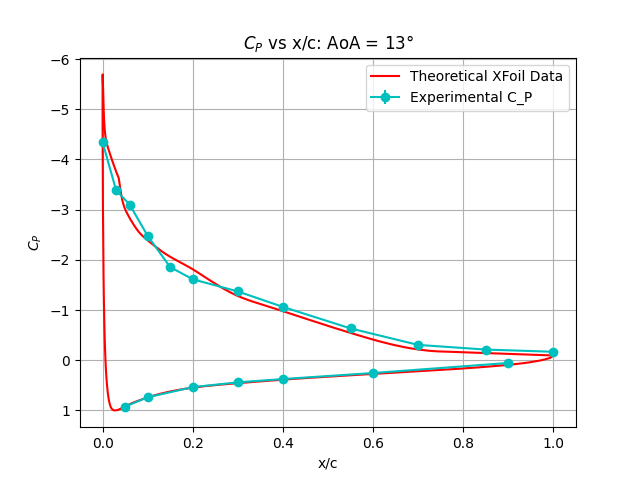
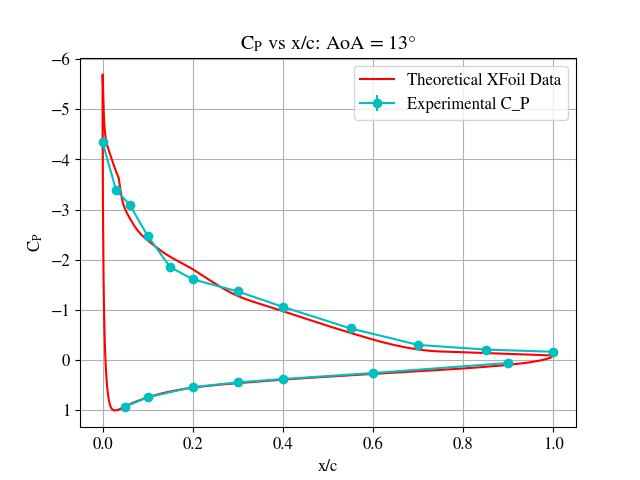
fdsgkolxzcnhvjoiuxcnb

diff --git a/src/Graphing.py b/src/Graphing.py
@@ -47,9 +47,15 @@ def CpGraph(a, Cp_top: np.array, Cp_bot: np.array, Cp_top_err: np.array, Cp_bot_
     Cp_top_err = Cp_top_err/30
     Cp_bot_err = Cp_bot_err/30
 
+    plt.rcParams['mathtext.fontset'] = 'stix'
+    plt.rcParams['font.family'] = 'STIXGeneral'
+    plt.rcParams.update({'font.size': 12})
+
     plt.plot(xfoil_x, xfoil_cp, color = 'r')
     plt.errorbar(air_top_tap_pos, Cp_top, yerr=Cp_top_err, color = 'c', marker = 'o')
     plt.errorbar(air_bot_tap_pos, Cp_bot, yerr=Cp_bot_err, color = 'c', marker = 'o')
+    params = {'mathtext.default': 'regular' }          
+    plt.rcParams.update(params)
     plt.title('$C_{P}$ vs x/c: AoA = ' + str(a) + u'\N{DEGREE SIGN}')
     plt.xlabel('x/c')
     plt.ylabel('$C_{P}$')
